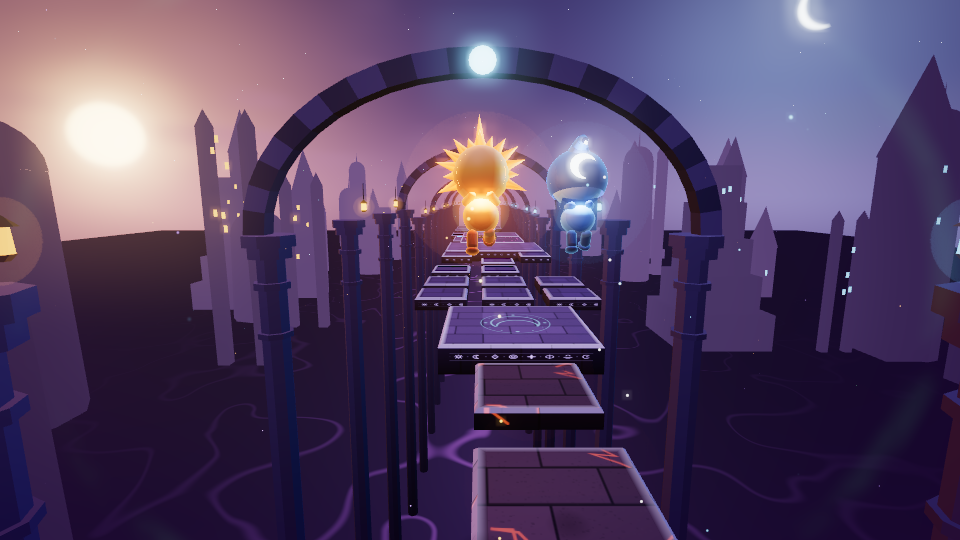
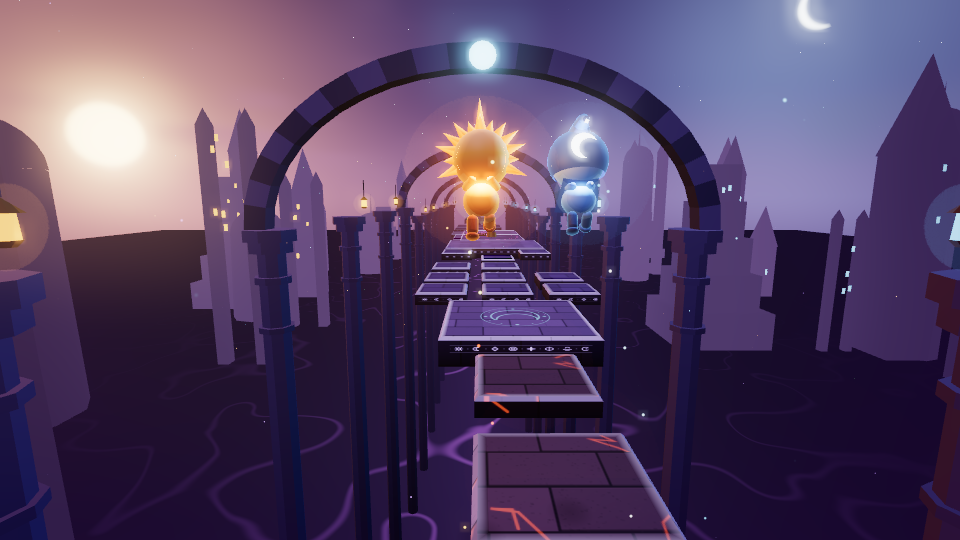
WIP Runner 3D demo: place kind shots on the run-up, floor-only ground probe

diff --git a/public/r3d-demo.html b/public/r3d-demo.html
@@ -39,20 +39,22 @@ function topAt(x, z) {
   let best = null;
   for (const o of L.objs) {
     if (o.z0 > z + 1) break;
-    if (o.k === 'spikes' || o.k === 'pool') continue;
-    if (x >= o.x0 && x <= o.x1 && z >= o.z0 && z <= o.z1 && (best == null || o.y > best)) best = o.y;
+    if (o.k !== 'floor' && o.k !== 'ramp') continue;
+    const y = o.k === 'ramp' ? o.y + (o.y1 - o.y) * (z - o.z0) / (o.z1 - o.z0) : o.y;
+    if (x >= o.x0 && x <= o.x1 && z >= o.z0 && z <= o.z1 && (best == null || y > best)) best = y;
   }
   return best;
 }
-function placeAt(z) {
+function placeAt(z, cx = null) {
   R3.ensureGenerated(L, z + 200);
   S.zone = z - 9;
   S.lo = 0;
   for (let i = 0; i < 2; i++) {
     const p = S.p[i];
+    if (cx != null) p.x = cx + (i ? 0.7 : -0.7);
     let zz = z;
     for (let k = 0; k < 80 && topAt(p.x, zz) == null; k++) zz += 0.5;
-    p.z = zz; p.y = topAt(p.x, zz) ?? 0; p.vx = p.vy = p.vz = 0; p.gr = true; p.alive = true;
+    p.z = zz; p.y = topAt(p.x, zz) ?? 0; p.fy = p.y; p.vx = p.vy = p.vz = 0; p.gr = true; p.alive = true;
     S.dead[i] = -1; S.why[i] = '';
   }
   S.best = [S.p[0].z, S.p[1].z];
@@ -64,7 +66,7 @@ if (Q.has('kind')) {
   for (let zz = 100; zz < 4000 && !found; zz += 100) { R3.ensureGenerated(L, zz); found = L.objs.find(o => o.k === kind); }
   // start on the run-up of the section that holds it
   const fi = L.objs.indexOf(found), sec = found && L.secs.find(s => fi >= s.o0 && fi < s.o1);
-  if (sec) placeAt(Math.max(0, sec.sz - 3)); else if (found) placeAt(Math.max(0, found.z0 - 7)); else console.warn('no object of kind', kind);
+  if (sec) placeAt(sec.sz, sec.sx); else if (found) placeAt(Math.max(0, found.z0 - 7)); else console.warn('no object of kind', kind);
 } else if (Q.has('z')) placeAt(num('z', 0));
 
 // --- input: bots by default; pressing a player's keys hands that player to the keyboard
